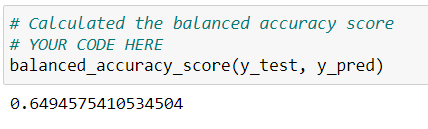
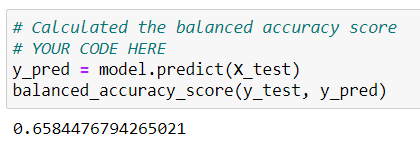
commit 2 on Jan 30

Changed region(s): [[0.0, 0.031, 1.0, 0.6822], [0.0, 0.7132, 1.0, 0.8992]]

diff --git a/README.md b/README.md
@@ -10,66 +10,66 @@ Here are the results of the machine learning models which were studied.
 
 - **RandomOverSampler (oversampling)**
 
-  - The Balanced Accuracy Score was .64, which is okay:
+  - The balanced accuracy score was .64, which is okay:
 
 	![](./Resources/native_bal.png)  
 
-  - The Classification Report showed a low precision score for high risk applicants, and a high precision score for low risk applicants. The Recall score was high for high risk applicants, and medium for low risk applicants. The F1 weighted score was low for high risk applicants and high for low risk applicants.
+  - The classification report showed a low precision score for high risk applicants, and a high precision score for low risk applicants. The recall score was pretty high for high risk applicants, and medium for low risk applicants. The F1 weighted score was low for high risk applicants and pretty high for low risk applicants.
 
 	![](./Resources/native_class.png)  
 
 - **SMOTE (oversampling)**
 
-  - The Balanced Accuracy Score was .64, which is okay:
+  - The balanced accuracy score was .65, which is okay:
 
 	![](./Resources/smote_bal.png)  
 
-  - The Classification Report showed a low precision score for high risk applicants, and a high precision score for low risk applicants. The Recall score was high for high risk applicants, and medium for low risk applicants. The F1 weighted score was low for high risk applicants and high for low risk applicants.
+  - The classification report showed a low precision score for high risk applicants, and a high precision score for low risk applicants. The recall score for high and low risk applicants was about the same. The F1 weighted score was low for high risk applicants and pretty high for low risk applicants.
 
 	![](./Resources/smote_class.png) 
 
 - **ClusterCentroids (undersampling)**
   
-  - The Balanced Accuracy Score was .64, which is okay:
+  - The balanced accuracy score was .54, which is not good:
 
 	![](./Resources/cluster_bal.png)   
 
-  - The Classification Report showed a low precision score for high risk applicants, and a high precision score for low risk applicants. The Recall score was high for high risk applicants, and medium for low risk applicants. The F1 weighted score was low for high risk applicants and high for low risk applicants.
+  - The classification report showed a low precision score for high risk applicants, and a high precision score for low risk applicants. The recall score was above half for high risk applicants, and below half for low risk applicants. The F1 weighted score was low for high risk applicants and half for low risk applicants.
   
 	![](./Resources/cluster_class.png)   
 
 - **SMOTEENN (combination under- and oversampling)** 
   
-  - The Balanced Accuracy Score was .64, which is okay:
+  - The balanced accuracy score was .64, which is okay:
 
     ![](./Resources/smoteenn_bal.png)   
     
-  - The Classification Report showed a low precision score for high risk applicants, and a high precision score for low risk applicants. The Recall score was high for high risk applicants, and medium for low risk applicants. The F1 weighted score was low for high risk applicants and high for low risk applicants.
+  - The classification report showed a low precision score for high risk applicants, and a high precision score for low risk applicants. The recall score was pretty high for high risk applicants, and medium for low risk applicants. The F1 weighted score was low for high risk applicants and pretty high for low risk applicants.
   
 	![](./Resources/smoteenn_class.png)   
   
 - **BalancedRandomForestClassifier (ensemble)**
   
-  - The Balanced Accuracy Score was .50, which is not good:
+  - The balanced accuracy score was .50, which is not good:
 
     ![](./Resources/forest_bal.png)   
     
-  - The Classification Report showed a better precision score for high risk applicants, and a high precision score for low risk applicants. The Recall score was low for high risk applicants, and high for low risk applicants. The F1 weighted score was low for high risk applicants and high for low risk applicants.
+  - The classification report showed a better precision score for high risk applicants, and a high precision score for low risk applicants. The recall score was low for high risk applicants, and high for low risk applicants. The F1 weighted score was low for high risk applicants and high for low risk applicants.
 
     ![](./Resources/forest_class.png)   
 
 - **EasyEnsembleClassifier (ensemble)**
 
-  - The Balanced Accuracy Score was .50, which is not good:
+  - The balanced accuracy score was .50, which is not good:
 
     ![](./Resources/eec_bal.png)   
 
-  - The Classification Report showed a better precision score for high risk applicants, and a high precision score for low risk applicants. The Recall score was low for high risk applicants, and high for low risk applicants. The F1 weighted score was low for high risk applicants and high for low risk applicants.
+  - The classification report showed a better precision score for high risk applicants, and a high precision score for low risk applicants. The recall score was low for high risk applicants, and high for low risk applicants. The F1 weighted score was low for high risk applicants and high for low risk applicants.
 
     ![](./Resources/eec_class.png)  
 
 
 
 ## Summary
-The results for undersampling, oversampling and combination over- and understampling algorithms produced identical results. The two ensemble algorithms produced identical results. I am not thrilled with any one model. I would like to continue reviewing models until I get one that has more balanced results in the classification report.
+There is always going to be a tension between precision and recall. I was interested in the results for SMOTE because the numbers for both the high risk and low risk applicants were closest together. The two ensemble algorithms produced identical results, so I am not sure I will pursue either of those. I would like to continue reviewing the oversampling, undersampling and combination over- and undersampling algorithms until I find one which is similar to SMOTE, but that has a higher balanced accuracy score.
 
